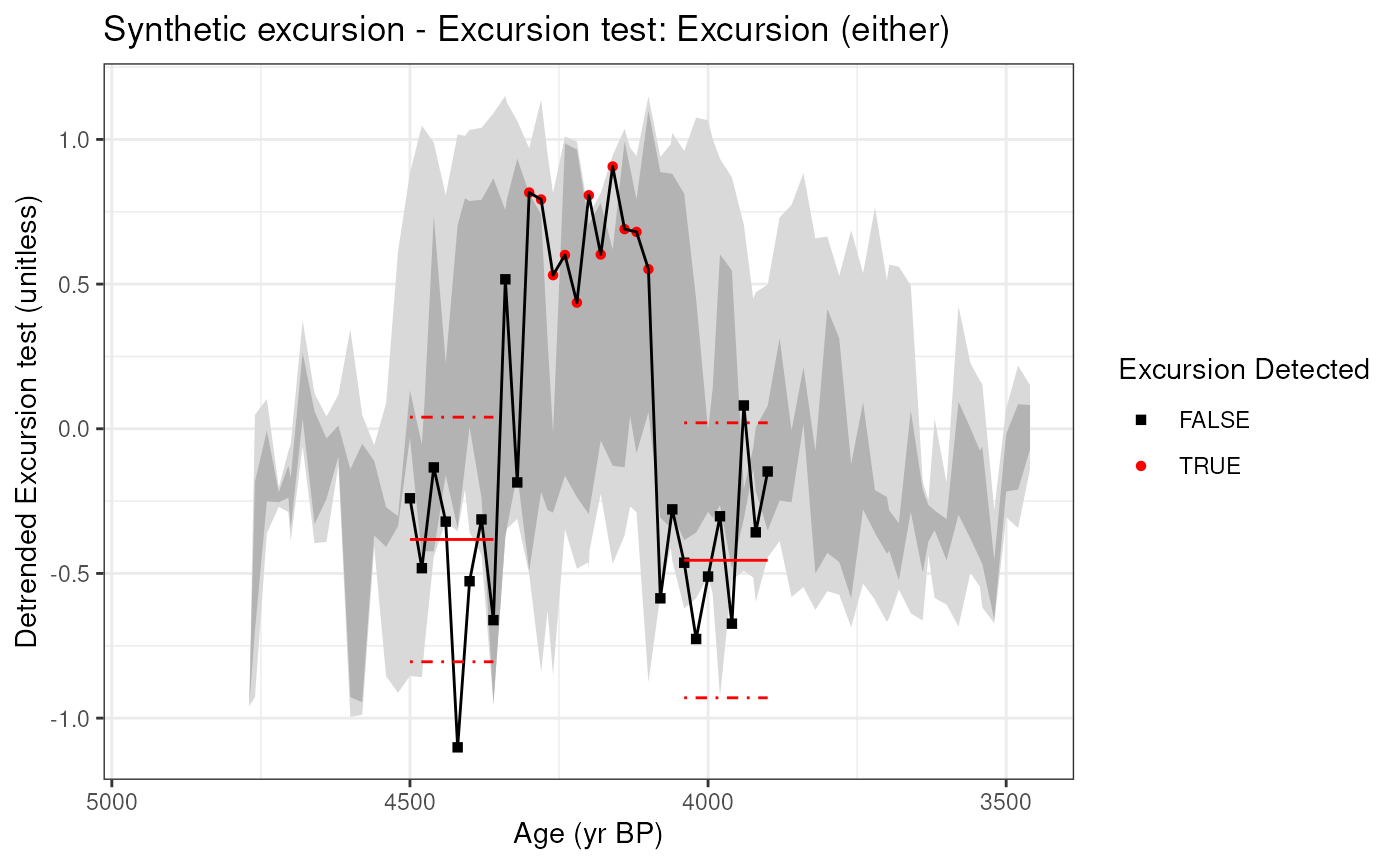
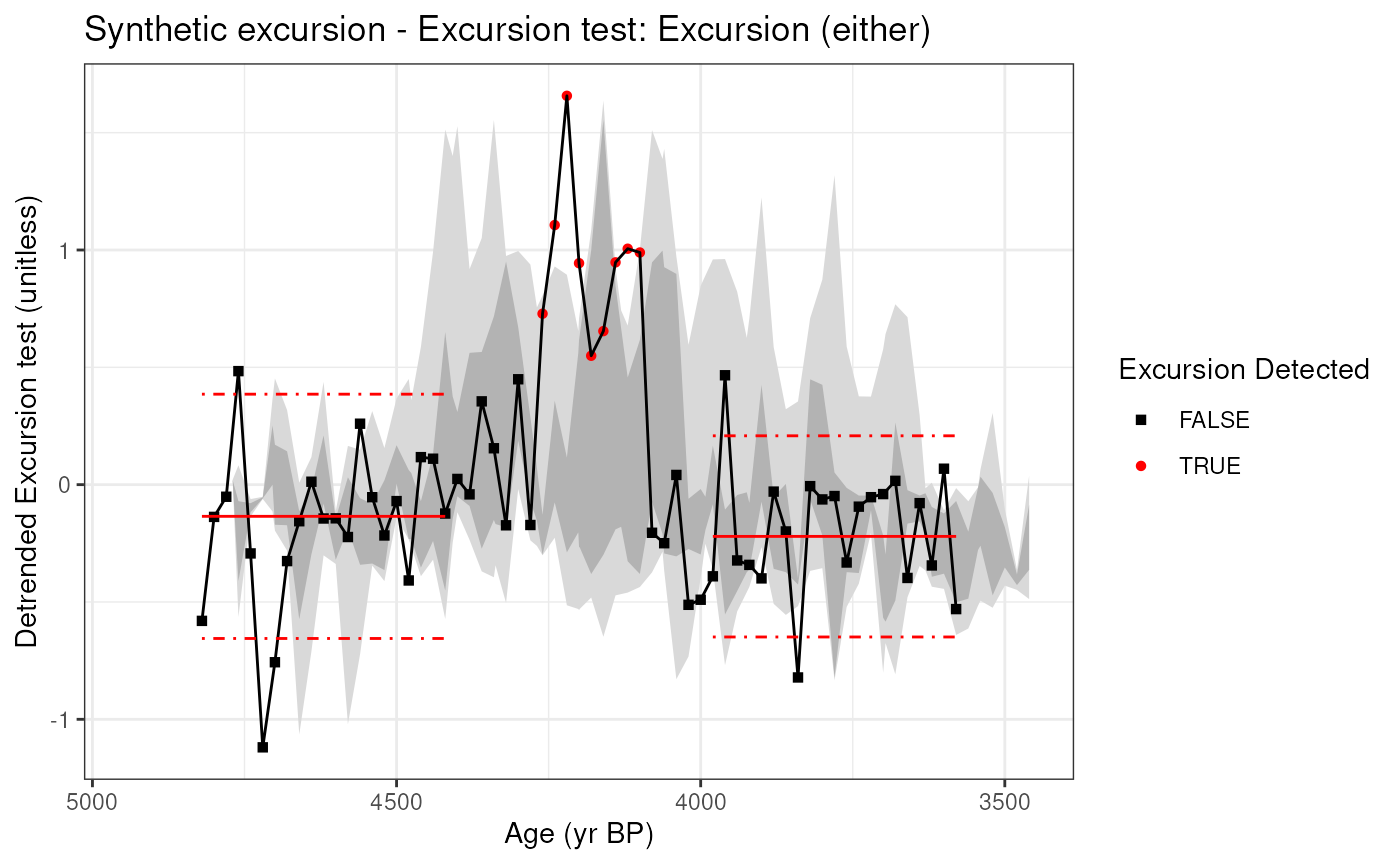
Deploying to gh-pages from @ LinkedEarth/actR@0a15c3859a4c50fc67e7e79ec5113cd6e4c5c3fe 🚀

diff --git a/articles/detectShift.html b/articles/detectShift.html
@@ -121,16 +121,14 @@ null.hypothesis.n]. * specifies a minimum segment length of 3000y</p>
 <span><span class="co">#&gt; <span style="color: #BB00BB;">timeUnits is at least partially absent in the input data</span></span></span>
 <span><span class="co"><span style="color: #BB00BB;">#&gt; </span><span style="color: #00BB00;">Testing null hypothesis with 50 simulations, each with 50 ensemble members. </span></span></span>
 <span><span class="co"><span style="color: #00BB00;">#&gt; </span></span></span>
-<span><span class="co">#&gt; Testing null hypothesis <span style="color: #00BB00;">■■■■                            </span>  10% |  ETA: 29s</span></span>
-<span><span class="co">#&gt; Testing null hypothesis <span style="color: #00BB00;">■■■■■■■                         </span>  20% |  ETA: 26s</span></span>
-<span><span class="co">#&gt; Testing null hypothesis <span style="color: #00BB00;">■■■■■■■■■                       </span>  28% |  ETA: 24s</span></span>
-<span><span class="co">#&gt; Testing null hypothesis <span style="color: #00BB00;">■■■■■■■■■■■■                    </span>  38% |  ETA: 21s</span></span>
-<span><span class="co">#&gt; Testing null hypothesis <span style="color: #00BB00;">■■■■■■■■■■■■■■■                 </span>  46% |  ETA: 18s</span></span>
-<span><span class="co">#&gt; Testing null hypothesis <span style="color: #00BB00;">■■■■■■■■■■■■■■■■■               </span>  54% |  ETA: 15s</span></span>
-<span><span class="co">#&gt; Testing null hypothesis <span style="color: #00BB00;">■■■■■■■■■■■■■■■■■■■■            </span>  62% |  ETA: 13s</span></span>
-<span><span class="co">#&gt; Testing null hypothesis <span style="color: #00BB00;">■■■■■■■■■■■■■■■■■■■■■■■         </span>  72% |  ETA:  9s</span></span>
-<span><span class="co">#&gt; Testing null hypothesis <span style="color: #00BB00;">■■■■■■■■■■■■■■■■■■■■■■■■■       </span>  80% |  ETA:  7s</span></span>
-<span><span class="co">#&gt; Testing null hypothesis <span style="color: #00BB00;">■■■■■■■■■■■■■■■■■■■■■■■■■■■■    </span>  90% |  ETA:  3s</span></span></code></pre></div>
+<span><span class="co">#&gt; Testing null hypothesis <span style="color: #00BB00;">■■■                             </span>   6% |  ETA: 23s</span></span>
+<span><span class="co">#&gt; Testing null hypothesis <span style="color: #00BB00;">■■■■■■                          </span>  18% |  ETA: 21s</span></span>
+<span><span class="co">#&gt; Testing null hypothesis <span style="color: #00BB00;">■■■■■■■■■■                      </span>  30% |  ETA: 18s</span></span>
+<span><span class="co">#&gt; Testing null hypothesis <span style="color: #00BB00;">■■■■■■■■■■■■■■                  </span>  42% |  ETA: 15s</span></span>
+<span><span class="co">#&gt; Testing null hypothesis <span style="color: #00BB00;">■■■■■■■■■■■■■■■■■               </span>  54% |  ETA: 12s</span></span>
+<span><span class="co">#&gt; Testing null hypothesis <span style="color: #00BB00;">■■■■■■■■■■■■■■■■■■■■            </span>  64% |  ETA:  9s</span></span>
+<span><span class="co">#&gt; Testing null hypothesis <span style="color: #00BB00;">■■■■■■■■■■■■■■■■■■■■■■■■        </span>  76% |  ETA:  6s</span></span>
+<span><span class="co">#&gt; Testing null hypothesis <span style="color: #00BB00;">■■■■■■■■■■■■■■■■■■■■■■■■■■■     </span>  88% |  ETA:  3s</span></span></code></pre></div>
 <p>This lines generates a textual summary of the output:</p>
 <div class="sourceCode" id="cb3"><pre class="downlit sourceCode r">
 <code class="sourceCode R"><span><span class="fu"><a href="https://rdrr.io/r/base/summary.html" class="external-link">summary</a></span><span class="op">(</span><span class="va">msGeob</span><span class="op">)</span></span>
@@ -181,12 +179,9 @@ attempt to detect changes in the mean.</p>
 <span><span class="co">#&gt; Selected trsgi</span></span>
 <span><span class="co">#&gt; <span style="color: #00BB00;">Testing null hypothesis with 50 simulations, each with 50 ensemble members. </span></span></span>
 <span><span class="co"><span style="color: #00BB00;">#&gt; </span></span></span>
-<span><span class="co">#&gt; Testing null hypothesis <span style="color: #00BB00;">■■■■■                           </span>  12% |  ETA: 17s</span></span>
-<span><span class="co">#&gt; Testing null hypothesis <span style="color: #00BB00;">■■■■■■■■■■                      </span>  30% |  ETA: 13s</span></span>
-<span><span class="co">#&gt; Testing null hypothesis <span style="color: #00BB00;">■■■■■■■■■■■■■■■                 </span>  46% |  ETA: 10s</span></span>
-<span><span class="co">#&gt; Testing null hypothesis <span style="color: #00BB00;">■■■■■■■■■■■■■■■■■■■■            </span>  62% |  ETA:  7s</span></span>
-<span><span class="co">#&gt; Testing null hypothesis <span style="color: #00BB00;">■■■■■■■■■■■■■■■■■■■■■■■■        </span>  78% |  ETA:  4s</span></span>
-<span><span class="co">#&gt; Testing null hypothesis <span style="color: #00BB00;">■■■■■■■■■■■■■■■■■■■■■■■■■■■■■   </span>  94% |  ETA:  1s</span></span></code></pre></div>
+<span><span class="co">#&gt; Testing null hypothesis <span style="color: #00BB00;">■■■■■■■■■■■                     </span>  32% |  ETA:  8s</span></span>
+<span><span class="co">#&gt; Testing null hypothesis <span style="color: #00BB00;">■■■■■■■■■■■■■■■■■■              </span>  56% |  ETA:  5s</span></span>
+<span><span class="co">#&gt; Testing null hypothesis <span style="color: #00BB00;">■■■■■■■■■■■■■■■■■■■■■■■■■       </span>  80% |  ETA:  2s</span></span></code></pre></div>
 <div class="sourceCode" id="cb6"><pre class="downlit sourceCode r">
 <code class="sourceCode R"><span><span class="va">gbmPlot</span> <span class="op">&lt;-</span> <span class="fu"><a href="https://rdrr.io/r/graphics/plot.default.html" class="external-link">plot</a></span><span class="op">(</span><span class="va">msGb</span><span class="op">)</span></span></code></pre></div>
 <p><img src="detectShift_files/figure-html/unnamed-chunk-6-1.png" width="700"></p>
@@ -211,12 +206,9 @@ package).</p>
 <span><span class="co">#&gt; Selected trsgi</span></span>
 <span><span class="co">#&gt; <span style="color: #00BB00;">Testing null hypothesis with 50 simulations, each with 50 ensemble members. </span></span></span>
 <span><span class="co"><span style="color: #00BB00;">#&gt; </span></span></span>
-<span><span class="co">#&gt; Testing null hypothesis <span style="color: #00BB00;">■■■■■■                          </span>  18% |  ETA: 15s</span></span>
-<span><span class="co">#&gt; Testing null hypothesis <span style="color: #00BB00;">■■■■■■■■■■■                     </span>  34% |  ETA: 12s</span></span>
-<span><span class="co">#&gt; Testing null hypothesis <span style="color: #00BB00;">■■■■■■■■■■■■■■■■                </span>  50% |  ETA:  9s</span></span>
-<span><span class="co">#&gt; Testing null hypothesis <span style="color: #00BB00;">■■■■■■■■■■■■■■■■■■■■            </span>  64% |  ETA:  7s</span></span>
-<span><span class="co">#&gt; Testing null hypothesis <span style="color: #00BB00;">■■■■■■■■■■■■■■■■■■■■■■■■■       </span>  80% |  ETA:  4s</span></span>
-<span><span class="co">#&gt; Testing null hypothesis <span style="color: #00BB00;">■■■■■■■■■■■■■■■■■■■■■■■■■■■■■■  </span>  96% |  ETA:  1s</span></span></code></pre></div>
+<span><span class="co">#&gt; Testing null hypothesis <span style="color: #00BB00;">■■■■■■■■■■                      </span>  30% |  ETA:  9s</span></span>
+<span><span class="co">#&gt; Testing null hypothesis <span style="color: #00BB00;">■■■■■■■■■■■■■■■■■               </span>  54% |  ETA:  6s</span></span>
+<span><span class="co">#&gt; Testing null hypothesis <span style="color: #00BB00;">■■■■■■■■■■■■■■■■■■■■■■■■        </span>  78% |  ETA:  3s</span></span></code></pre></div>
 <p>Note also that actR offers 3 different methods to generate
 surrogates, as detailed in the documentation. The default is
 <em>isospectral</em>, which was used in the previous examples. To change

diff --git a/articles/detectExcursion.html b/articles/detectExcursion.html
@@ -196,16 +196,12 @@ null hypothesis simulation 50 times.</p>
 <span><span class="co">#&gt; Selected d18O</span></span>
 <span><span class="co">#&gt; <span style="color: #00BB00;">Testing null hypothesis with 50 simulations, each with 50 ensemble members. </span></span></span>
 <span><span class="co"><span style="color: #00BB00;">#&gt; </span></span></span>
-<span><span class="co">#&gt; Testing null hypothesis <span style="color: #00BB00;">■■■                             </span>   6% |  ETA: 37s</span></span>
-<span><span class="co">#&gt; Testing null hypothesis <span style="color: #00BB00;">■■■■■                           </span>  14% |  ETA: 31s</span></span>
-<span><span class="co">#&gt; Testing null hypothesis <span style="color: #00BB00;">■■■■■■■■                        </span>  24% |  ETA: 26s</span></span>
-<span><span class="co">#&gt; Testing null hypothesis <span style="color: #00BB00;">■■■■■■■■■■■                     </span>  34% |  ETA: 22s</span></span>
-<span><span class="co">#&gt; Testing null hypothesis <span style="color: #00BB00;">■■■■■■■■■■■■■■                  </span>  42% |  ETA: 20s</span></span>
-<span><span class="co">#&gt; Testing null hypothesis <span style="color: #00BB00;">■■■■■■■■■■■■■■■■■               </span>  52% |  ETA: 16s</span></span>
-<span><span class="co">#&gt; Testing null hypothesis <span style="color: #00BB00;">■■■■■■■■■■■■■■■■■■■             </span>  60% |  ETA: 13s</span></span>
-<span><span class="co">#&gt; Testing null hypothesis <span style="color: #00BB00;">■■■■■■■■■■■■■■■■■■■■■■          </span>  70% |  ETA: 10s</span></span>
-<span><span class="co">#&gt; Testing null hypothesis <span style="color: #00BB00;">■■■■■■■■■■■■■■■■■■■■■■■■        </span>  78% |  ETA:  7s</span></span>
-<span><span class="co">#&gt; Testing null hypothesis <span style="color: #00BB00;">■■■■■■■■■■■■■■■■■■■■■■■■■■■     </span>  88% |  ETA:  4s</span></span>
+<span><span class="co">#&gt; Testing null hypothesis <span style="color: #00BB00;">■■                              </span>   4% |  ETA: 26s</span></span>
+<span><span class="co">#&gt; Testing null hypothesis <span style="color: #00BB00;">■■■■■■■                         </span>  20% |  ETA: 17s</span></span>
+<span><span class="co">#&gt; Testing null hypothesis <span style="color: #00BB00;">■■■■■■■■■■■■                    </span>  36% |  ETA: 13s</span></span>
+<span><span class="co">#&gt; Testing null hypothesis <span style="color: #00BB00;">■■■■■■■■■■■■■■■■                </span>  50% |  ETA: 10s</span></span>
+<span><span class="co">#&gt; Testing null hypothesis <span style="color: #00BB00;">■■■■■■■■■■■■■■■■■■■■■           </span>  66% |  ETA:  7s</span></span>
+<span><span class="co">#&gt; Testing null hypothesis <span style="color: #00BB00;">■■■■■■■■■■■■■■■■■■■■■■■■■       </span>  80% |  ETA:  4s</span></span>
 <span><span class="co">#&gt; Testing null hypothesis <span style="color: #00BB00;">■■■■■■■■■■■■■■■■■■■■■■■■■■■■■■  </span>  96% |  ETA:  1s</span></span></code></pre></div>
 <p>This time, when we summarize the results, we get more interesting
 output, including an empirical p-value, which is the fraction of null
@@ -275,20 +271,15 @@ through our robust null hypothesis testing.</p>
 <span><span class="co">#&gt; Selected d18O</span></span>
 <span><span class="co">#&gt; <span style="color: #00BB00;">Testing null hypothesis with 50 simulations, each with 50 ensemble members. </span></span></span>
 <span><span class="co"><span style="color: #00BB00;">#&gt; </span></span></span>
-<span><span class="co">#&gt; Testing null hypothesis <span style="color: #00BB00;">■■■                             </span>   6% |  ETA: 42s</span></span>
-<span><span class="co">#&gt; Testing null hypothesis <span style="color: #00BB00;">■■■■■                           </span>  14% |  ETA: 39s</span></span>
-<span><span class="co">#&gt; Testing null hypothesis <span style="color: #00BB00;">■■■■■■■                         </span>  20% |  ETA: 37s</span></span>
-<span><span class="co">#&gt; Testing null hypothesis <span style="color: #00BB00;">■■■■■■■■■                       </span>  26% |  ETA: 34s</span></span>
-<span><span class="co">#&gt; Testing null hypothesis <span style="color: #00BB00;">■■■■■■■■■■■                     </span>  34% |  ETA: 29s</span></span>
-<span><span class="co">#&gt; Testing null hypothesis <span style="color: #00BB00;">■■■■■■■■■■■■■                   </span>  40% |  ETA: 26s</span></span>
-<span><span class="co">#&gt; Testing null hypothesis <span style="color: #00BB00;">■■■■■■■■■■■■■■■                 </span>  48% |  ETA: 23s</span></span>
-<span><span class="co">#&gt; Testing null hypothesis <span style="color: #00BB00;">■■■■■■■■■■■■■■■■■               </span>  54% |  ETA: 20s</span></span>
-<span><span class="co">#&gt; Testing null hypothesis <span style="color: #00BB00;">■■■■■■■■■■■■■■■■■■■             </span>  60% |  ETA: 18s</span></span>
-<span><span class="co">#&gt; Testing null hypothesis <span style="color: #00BB00;">■■■■■■■■■■■■■■■■■■■■■           </span>  68% |  ETA: 14s</span></span>
-<span><span class="co">#&gt; Testing null hypothesis <span style="color: #00BB00;">■■■■■■■■■■■■■■■■■■■■■■■         </span>  74% |  ETA: 12s</span></span>
-<span><span class="co">#&gt; Testing null hypothesis <span style="color: #00BB00;">■■■■■■■■■■■■■■■■■■■■■■■■■■      </span>  82% |  ETA:  8s</span></span>
-<span><span class="co">#&gt; Testing null hypothesis <span style="color: #00BB00;">■■■■■■■■■■■■■■■■■■■■■■■■■■■     </span>  88% |  ETA:  5s</span></span>
-<span><span class="co">#&gt; Testing null hypothesis <span style="color: #00BB00;">■■■■■■■■■■■■■■■■■■■■■■■■■■■■■   </span>  94% |  ETA:  3s</span></span></code></pre></div>
+<span><span class="co">#&gt; Testing null hypothesis <span style="color: #00BB00;">■■■■■                           </span>  12% |  ETA: 27s</span></span>
+<span><span class="co">#&gt; Testing null hypothesis <span style="color: #00BB00;">■■■■■■■■                        </span>  22% |  ETA: 24s</span></span>
+<span><span class="co">#&gt; Testing null hypothesis <span style="color: #00BB00;">■■■■■■■■■■■                     </span>  34% |  ETA: 20s</span></span>
+<span><span class="co">#&gt; Testing null hypothesis <span style="color: #00BB00;">■■■■■■■■■■■■■■                  </span>  44% |  ETA: 16s</span></span>
+<span><span class="co">#&gt; Testing null hypothesis <span style="color: #00BB00;">■■■■■■■■■■■■■■■■■               </span>  54% |  ETA: 14s</span></span>
+<span><span class="co">#&gt; Testing null hypothesis <span style="color: #00BB00;">■■■■■■■■■■■■■■■■■■■■            </span>  64% |  ETA: 11s</span></span>
+<span><span class="co">#&gt; Testing null hypothesis <span style="color: #00BB00;">■■■■■■■■■■■■■■■■■■■■■■■         </span>  74% |  ETA:  8s</span></span>
+<span><span class="co">#&gt; Testing null hypothesis <span style="color: #00BB00;">■■■■■■■■■■■■■■■■■■■■■■■■■■      </span>  84% |  ETA:  5s</span></span>
+<span><span class="co">#&gt; Testing null hypothesis <span style="color: #00BB00;">■■■■■■■■■■■■■■■■■■■■■■■■■■■■■   </span>  92% |  ETA:  2s</span></span></code></pre></div>
 <p>Let’s examine the result.</p>
 <div class="sourceCode" id="cb9"><pre class="downlit sourceCode r">
 <code class="sourceCode R"><span></span>

diff --git a/articles/makeExcursion.html b/articles/makeExcursion.html
@@ -284,18 +284,15 @@ uncertainty.</p>
 <span>                          simulate.paleo.uncertainty <span class="op">=</span> <span class="cn">TRUE</span><span class="op">)</span></span></code></pre></div>
 <pre><code><span><span class="co">## <span style="color: #00BB00;">Testing null hypothesis with 50 simulations, each with 50 ensemble members. </span></span></span>
 <span><span class="co"><span style="color: #00BB00;">## </span></span></span></code></pre>
-<pre><code><span><span class="co">## Testing null hypothesis <span style="color: #00BB00;">■■■■■                           </span>  12% |  ETA: 31s</span></span></code></pre>
-<pre><code><span><span class="co">## Testing null hypothesis <span style="color: #00BB00;">■■■■■■                          </span>  18% |  ETA: 30s</span></span></code></pre>
-<pre><code><span><span class="co">## Testing null hypothesis <span style="color: #00BB00;">■■■■■■■■■                       </span>  28% |  ETA: 26s</span></span></code></pre>
-<pre><code><span><span class="co">## Testing null hypothesis <span style="color: #00BB00;">■■■■■■■■■■■■                    </span>  36% |  ETA: 22s</span></span></code></pre>
-<pre><code><span><span class="co">## Testing null hypothesis <span style="color: #00BB00;">■■■■■■■■■■■■■■■                 </span>  46% |  ETA: 19s</span></span></code></pre>
-<pre><code><span><span class="co">## Testing null hypothesis <span style="color: #00BB00;">■■■■■■■■■■■■■■■■■■              </span>  56% |  ETA: 15s</span></span></code></pre>
-<pre><code><span><span class="co">## Testing null hypothesis <span style="color: #00BB00;">■■■■■■■■■■■■■■■■■■■■            </span>  64% |  ETA: 12s</span></span></code></pre>
-<pre><code><span><span class="co">## Testing null hypothesis <span style="color: #00BB00;">■■■■■■■■■■■■■■■■■■■■■■■         </span>  74% |  ETA:  9s</span></span></code></pre>
-<pre><code><span><span class="co">## Testing null hypothesis <span style="color: #00BB00;">■■■■■■■■■■■■■■■■■■■■■■■■■■      </span>  82% |  ETA:  6s</span></span></code></pre>
-<pre><code><span><span class="co">## Testing null hypothesis <span style="color: #00BB00;">■■■■■■■■■■■■■■■■■■■■■■■■■■■■■   </span>  92% |  ETA:  3s</span></span></code></pre>
+<pre><code><span><span class="co">## Testing null hypothesis <span style="color: #00BB00;">■■■■■                           </span>  14% |  ETA: 19s</span></span></code></pre>
+<pre><code><span><span class="co">## Testing null hypothesis <span style="color: #00BB00;">■■■■■■■■■                       </span>  26% |  ETA: 17s</span></span></code></pre>
+<pre><code><span><span class="co">## Testing null hypothesis <span style="color: #00BB00;">■■■■■■■■■■■■■                   </span>  40% |  ETA: 13s</span></span></code></pre>
+<pre><code><span><span class="co">## Testing null hypothesis <span style="color: #00BB00;">■■■■■■■■■■■■■■■■■■              </span>  56% |  ETA: 10s</span></span></code></pre>
+<pre><code><span><span class="co">## Testing null hypothesis <span style="color: #00BB00;">■■■■■■■■■■■■■■■■■■■■■■          </span>  70% |  ETA:  6s</span></span></code></pre>
+<pre><code><span><span class="co">## Testing null hypothesis <span style="color: #00BB00;">■■■■■■■■■■■■■■■■■■■■■■■■■■      </span>  84% |  ETA:  3s</span></span></code></pre>
+<pre><code><span><span class="co">## Testing null hypothesis <span style="color: #00BB00;">■■■■■■■■■■■■■■■■■■■■■■■■■■■■■■  </span>  98% |  ETA:  0s</span></span></code></pre>
 <p>Now let’s look at the results</p>
-<div class="sourceCode" id="cb21"><pre class="downlit sourceCode r">
+<div class="sourceCode" id="cb18"><pre class="downlit sourceCode r">
 <code class="sourceCode R"><span><span class="fu"><a href="https://rdrr.io/r/base/print.html" class="external-link">print</a></span><span class="op">(</span><span class="va">detectedExcusionEns</span><span class="op">)</span></span></code></pre></div>
 <pre><code><span><span class="co">## <span style="font-weight: bold;">Synthetic excursion - Excursion test: Excursion test results</span></span></span>
 <span><span class="co"><span style="font-weight: bold;">## </span><span style="color: #555555;">Searched for </span><span style="color: #555555; font-weight: bold;">positive</span><span style="color: #555555;"> excursions in a </span><span style="color: #555555; font-weight: bold;">400</span><span style="color: #555555;"> year window around </span><span style="color: #555555; font-weight: bold;">4200</span><span style="color: #555555;"> yr BP, with reference windows of </span><span style="color: #555555; font-weight: bold;">400</span><span style="color: #555555;"> years on either side.</span></span></span>
@@ -314,7 +311,7 @@ uncertainty.</p>
 <span><span class="co"><span style="color: #555555;">## na.rm = TRUE</span></span></span>
 <span><span class="co"><span style="color: #555555;">## </span></span></span></code></pre>
 <p>and make a plot</p>
-<div class="sourceCode" id="cb23"><pre class="downlit sourceCode r">
+<div class="sourceCode" id="cb20"><pre class="downlit sourceCode r">
 <code class="sourceCode R"><span><span class="fu"><a href="https://rdrr.io/r/graphics/plot.default.html" class="external-link">plot</a></span><span class="op">(</span><span class="va">detectedExcusionEns</span><span class="op">)</span></span></code></pre></div>
 <p><img src="makeExcursion_files/figure-html/unnamed-chunk-7-1.png" width="700"></p>
 </div>

diff --git a/articles/makeShift.html b/articles/makeShift.html
@@ -124,10 +124,9 @@ time 20</p>
 <span>                     n.ens <span class="op">=</span> <span class="fl">50</span><span class="op">)</span></span>
 <span><span class="co">#&gt; <span style="color: #00BB00;">Testing null hypothesis with 50 simulations, each with 50 ensemble members. </span></span></span>
 <span><span class="co"><span style="color: #00BB00;">#&gt; </span></span></span>
-<span><span class="co">#&gt; Testing null hypothesis <span style="color: #00BB00;">■■■■■■■■                        </span>  22% |  ETA: 12s</span></span>
-<span><span class="co">#&gt; Testing null hypothesis <span style="color: #00BB00;">■■■■■■■■■■■■                    </span>  38% |  ETA: 10s</span></span>
-<span><span class="co">#&gt; Testing null hypothesis <span style="color: #00BB00;">■■■■■■■■■■■■■■■■■■■             </span>  60% |  ETA:  6s</span></span>
-<span><span class="co">#&gt; Testing null hypothesis <span style="color: #00BB00;">■■■■■■■■■■■■■■■■■■■■■■■■■       </span>  80% |  ETA:  3s</span></span></code></pre></div>
+<span><span class="co">#&gt; Testing null hypothesis <span style="color: #00BB00;">■■■■■■                          </span>  16% |  ETA:  8s</span></span>
+<span><span class="co">#&gt; Testing null hypothesis <span style="color: #00BB00;">■■■■■■■■■■■■■■■                 </span>  46% |  ETA:  6s</span></span>
+<span><span class="co">#&gt; Testing null hypothesis <span style="color: #00BB00;">■■■■■■■■■■■■■■■■■■■■■■■■        </span>  78% |  ETA:  2s</span></span></code></pre></div>
 <p>###Plot shift</p>
 <p>Let’s plot the results</p>
 <div class="sourceCode" id="cb4"><pre class="downlit sourceCode r">

diff --git a/reference/detectExcursionCore.html b/reference/detectExcursionCore.html
@@ -75,7 +75,7 @@
 <span>  sig.num <span class="op">=</span> <span class="fl">2</span>,</span>
 <span>  n.consecutive <span class="op">=</span> <span class="fl">2</span>,</span>
 <span>  exc.type <span class="op">=</span> <span class="st">"either"</span>,</span>
-<span>  min.vals <span class="op">=</span> <span class="fl">4</span>,</span>
+<span>  min.vals <span class="op">=</span> <span class="fl">2</span>,</span>
 <span>  na.rm <span class="op">=</span> <span class="cn">TRUE</span></span>
 <span><span class="op">)</span></span></code></pre></div>
     </div>
